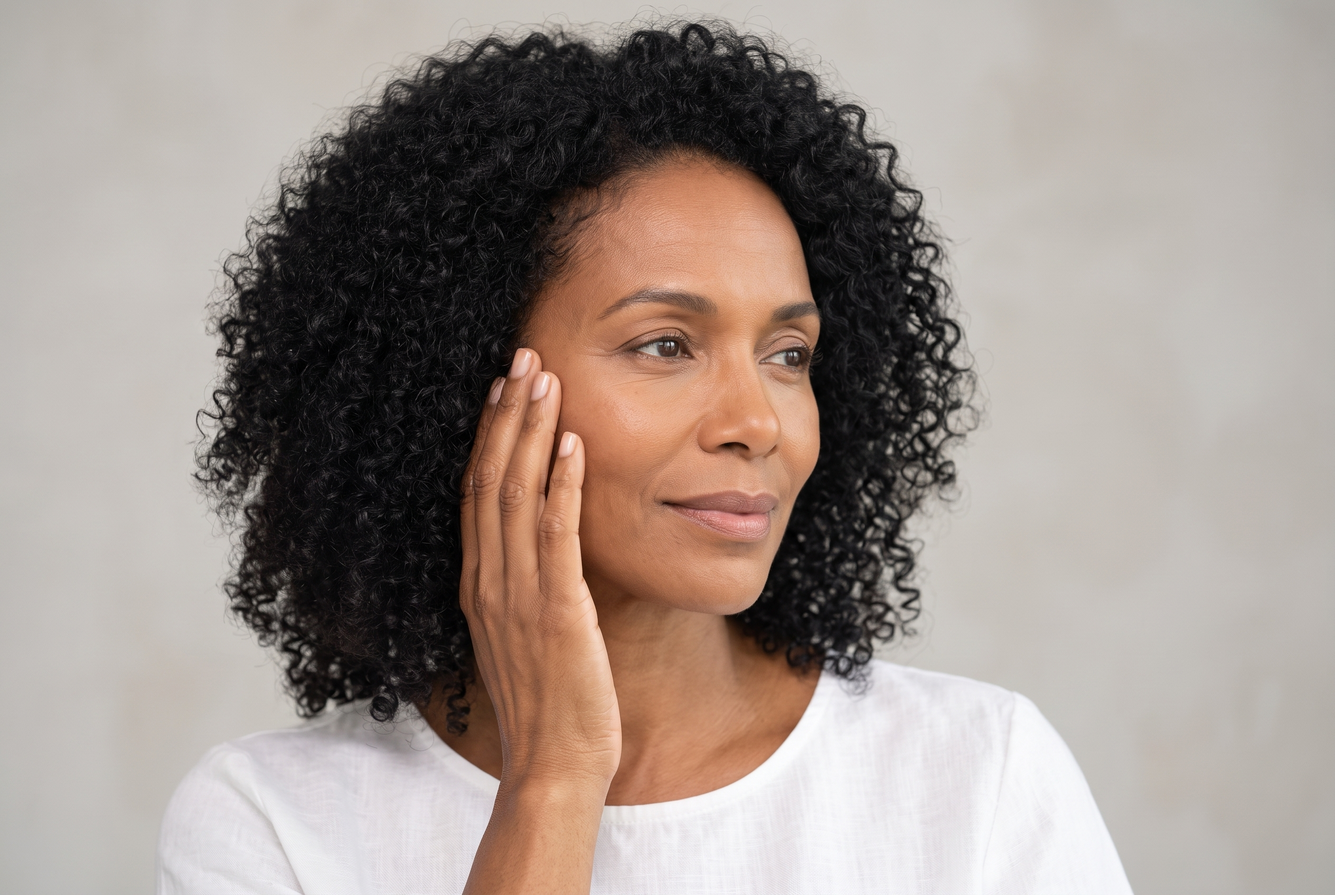
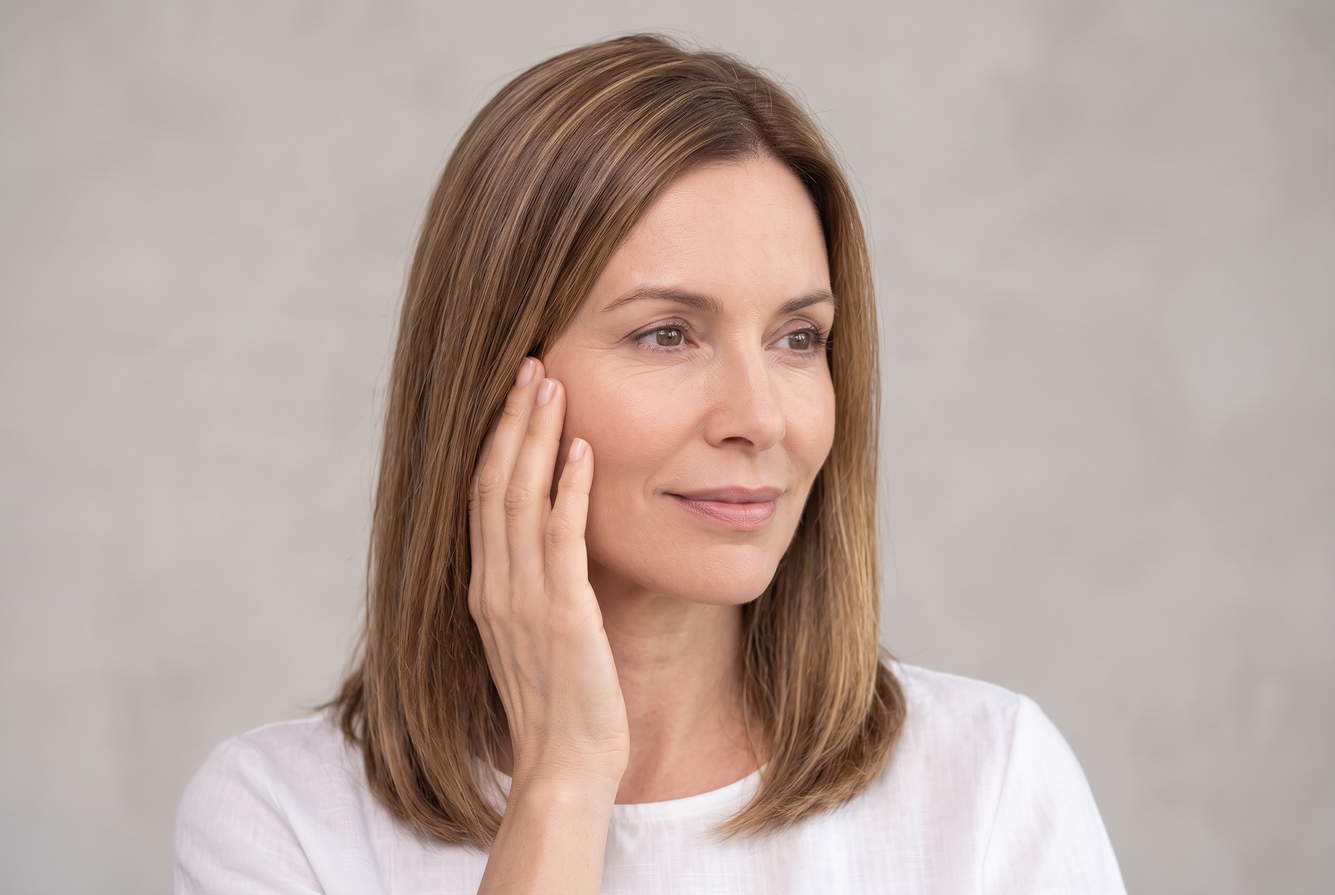
feat: Editar imágenes

diff --git a/js/services-data.js b/js/services-data.js
@@ -20,7 +20,7 @@ const SERVICES_DATA = [
     price: "$2,200 MXN",
     priceNumber: 0,
     duration: "60 min",
-    image: "assets/images/img12.jpeg",
+    image: "assets/images/img9.jpeg",
     badge: "Más Popular",
     benefits: [
       "Resultados desde la primera sesión",
